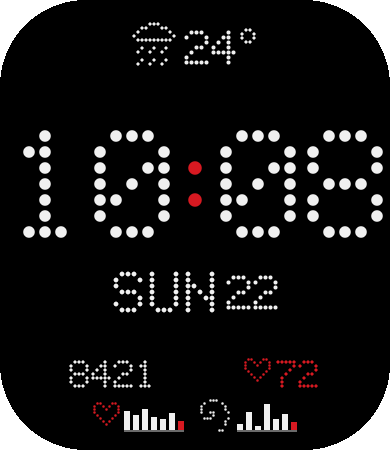
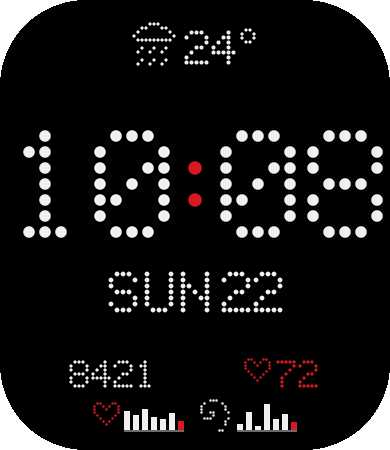
ui: unify date-row font — day number now same pitch as weekday (no size jump)

Changed region(s): [[0.2769, 0.5911, 0.7385, 0.7156]]

diff --git a/watchface/bip-6/index.js b/watchface/bip-6/index.js
@@ -88,8 +88,8 @@ WatchFace({
     const wd = (week + 5) % 7                 // -> 0=Mon..6=Sun
     const day = safe(() => ts.day, 1)
     img(A.WEEKDAY[wd], d.weekdayX, d.weekdayY, BOTH)
-    const dd = pool(2, d.ddY, BOTH, A.NUMSM_WHITE[0])
-    showNum(dd, A.NUMSM_WHITE, A.NUMSM.w, day, d.ddY, d.ddCx)
+    const dd = pool(2, d.ddY, BOTH, A.NUMWD_WHITE[0])
+    showNum(dd, A.NUMWD_WHITE, A.NUMWD.w, day, d.ddY, d.ddCx)
   },
 
   // ---- weather strip (built-in WEATHER sensor, phone-synced) -----------

diff --git a/watchface/bip-6/layout.js b/watchface/bip-6/layout.js
@@ -31,14 +31,14 @@ export const WEATHER = {
 // --- date row: WEEKDAY  DD  (no month, centred) ------------------------
 const dateCenterY = 292
 const DATE_GAP = 12
-const ddBoxW = 2 * A.NUMSM.w
+const ddBoxW = 2 * A.NUMWD.w // day digits share the weekday's pitch (one font)
 const dateTotal = A.WORD.w + DATE_GAP + ddBoxW
 const dateStartX = R((DEVICE.w - dateTotal) / 2)
 export const DATE = {
   weekdayX: dateStartX,
   weekdayY: R(dateCenterY - A.WORD.h / 2),
   ddCx: dateStartX + A.WORD.w + DATE_GAP + R(ddBoxW / 2),
-  ddY: R(dateCenterY - A.NUMSM.h / 2),
+  ddY: R(dateCenterY - A.NUMWD.h / 2),
 }
 
 // --- metrics row: steps (white) | [heart] hr (red) — small & low -------

diff --git a/watchface/bip-6/assets.gen.js b/watchface/bip-6/assets.gen.js
@@ -16,6 +16,9 @@ export const WORD = { w: 102, h: 42 }
 export const WEEKDAY = ["images/word/wd0.png","images/word/wd1.png","images/word/wd2.png","images/word/wd3.png","images/word/wd4.png","images/word/wd5.png","images/word/wd6.png"]
 export const MONTH = ["images/word/mo0.png","images/word/mo1.png","images/word/mo2.png","images/word/mo3.png","images/word/mo4.png","images/word/mo5.png","images/word/mo6.png","images/word/mo7.png","images/word/mo8.png","images/word/mo9.png","images/word/mo10.png","images/word/mo11.png"]
 
+export const NUMWD = { w: 30, h: 42 }
+export const NUMWD_WHITE = ["images/numwd/w0.png","images/numwd/w1.png","images/numwd/w2.png","images/numwd/w3.png","images/numwd/w4.png","images/numwd/w5.png","images/numwd/w6.png","images/numwd/w7.png","images/numwd/w8.png","images/numwd/w9.png"]
+
 export const WX_ICON = { w: 44, h: 44 }
 export const WX = {
   "clear": "images/wx/clear.png",